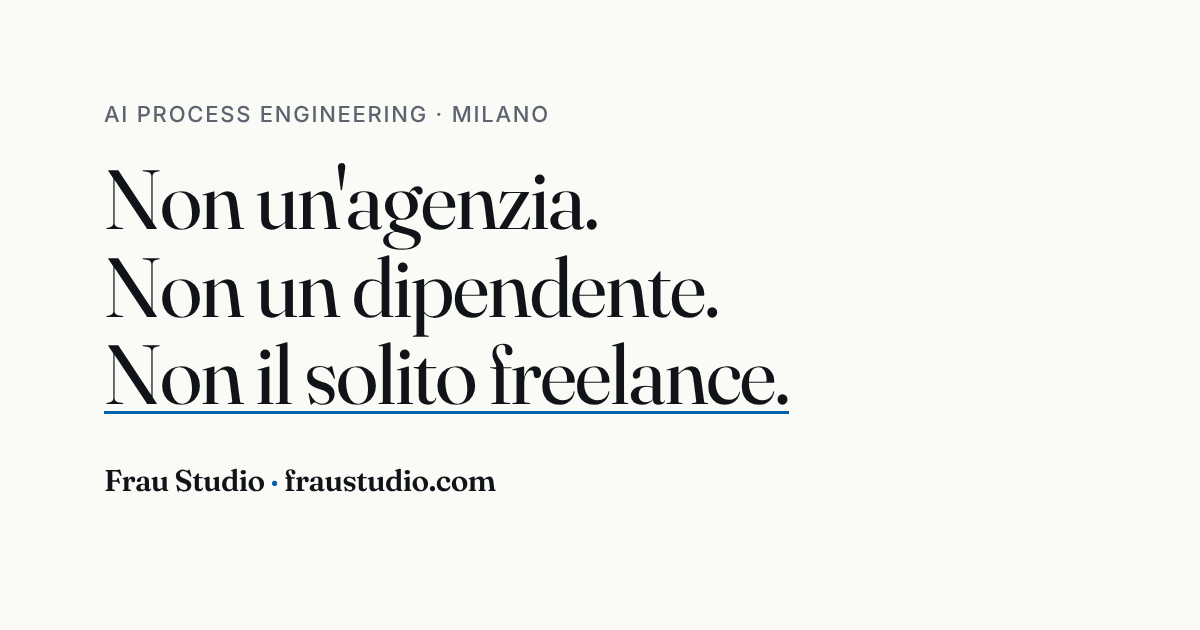
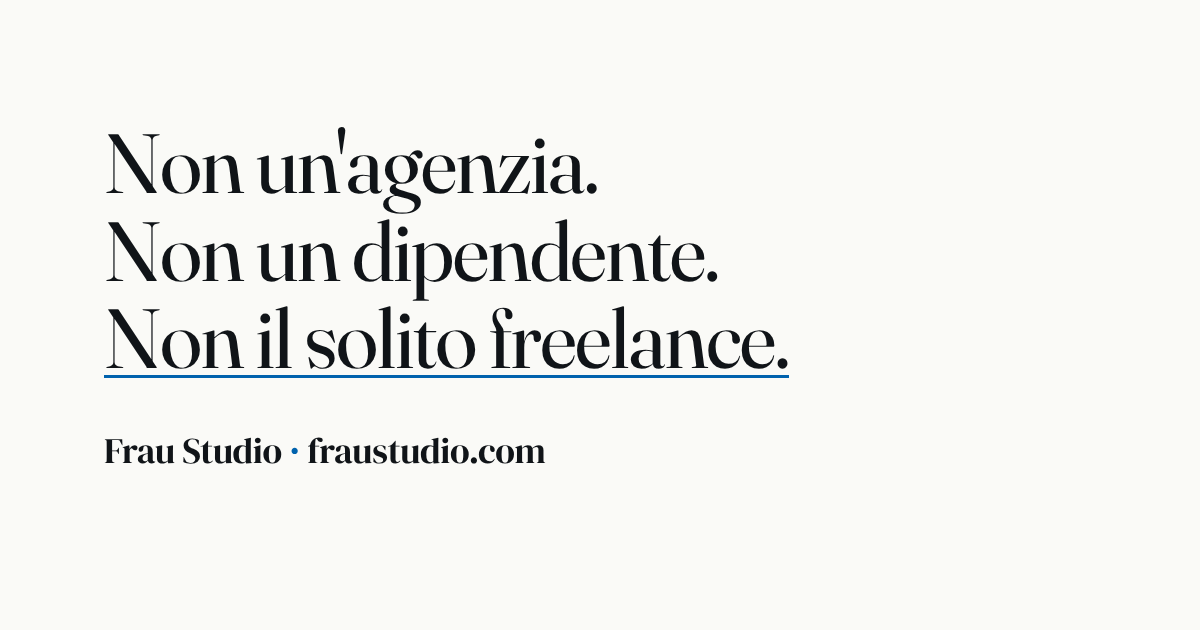
Wordmark più grande, hero senza kicker, FERØ senza nota
- Wordmark "Frau Studio" in DM Serif Display, più grande e più pieno
- Tolto il kicker "AI PROCESS ENGINEERING · MILANO" dall'hero e dall'og.png
- Tolta la nota "il codice è vero" dal badge di FERØ

Claude-Session: https://claude.ai/code/session_01AMMyEkETtqwbqHYx5aWHYv

Changed region(s): [[0.0925, 0.1508, 0.6783, 0.6635], [0.0617, 0.6937, 0.4625, 0.7841]]

diff --git a/index.html b/index.html
@@ -19,8 +19,8 @@
 <meta name="twitter:card" content="summary_large_image">
 <link rel="preconnect" href="https://fonts.googleapis.com">
 <link rel="preconnect" href="https://fonts.gstatic.com" crossorigin>
-<link rel="stylesheet" href="https://fonts.googleapis.com/css2?family=Fraunces:ital,opsz,wght@0,9..144,400;0,9..144,600;1,9..144,400;1,9..144,600&family=Inter:wght@400;500;600&display=swap">
-<link rel="stylesheet" href="/assets/style.css?v=42e7828291">
+<link rel="stylesheet" href="https://fonts.googleapis.com/css2?family=DM+Serif+Display&family=Fraunces:ital,opsz,wght@0,9..144,400;0,9..144,600;1,9..144,400;1,9..144,600&family=Inter:wght@400;500;600&display=swap">
+<link rel="stylesheet" href="/assets/style.css?v=a4e9590459">
 <script>document.documentElement.classList.add("js")</script>
 </head>
 <body>
@@ -75,7 +75,6 @@
   <script type="application/ld+json">{"@context": "https://schema.org", "@type": "Person", "name": "Alessandro Frau", "jobTitle": "AI Process Engineer", "worksFor": {"@type": "Organization", "name": "Frau Studio", "url": "https://fraustudio.com", "vatID": "IT14815310967"}, "url": "https://fraustudio.com", "email": "alessandro.frau88@gmail.com", "address": {"@type": "PostalAddress", "addressLocality": "Milano", "addressCountry": "IT"}, "sameAs": ["https://github.com/Aleczf", "https://www.linkedin.com/in/alessandro-frau-095b60153/"]}</script>
   <section id="top" class="hero">
     <div class="container">
-      <p class="kicker hero__kicker">AI PROCESS ENGINEERING · MILANO</p>
       <h1 class="hero__heading">
         <span class="hero__line" style="animation-delay: 0ms">Non un&#x27;agenzia.</span>
         <span class="hero__line" style="animation-delay: 120ms">Non un dipendente.</span>
@@ -253,7 +252,7 @@
         </div>
         <div class="card work-card">
           <a href="/lavori/fero/" class="work-card__stretched-link" aria-label="FERØ — Leggi il caso"></a>
-          <span class="badge-group"><span class="badge">CONCEPT DIMOSTRATIVO</span><span class="badge-note">il codice è vero</span></span>
+          <span class="badge-group"><span class="badge">CONCEPT DIMOSTRATIVO</span></span>
           <p class="kicker work-card__category">Sistema completo · AI · E-commerce</p>
           <h3 class="work-card__name">FERØ</h3>
           <p class="work-card__challenge">Vetrina, scelta assistita, contatti e back-office: di norma quattro fornitori e settimane di coordinamento.</p>

diff --git a/lavori/fero/index.html b/lavori/fero/index.html
@@ -19,8 +19,8 @@
 <meta name="twitter:card" content="summary_large_image">
 <link rel="preconnect" href="https://fonts.googleapis.com">
 <link rel="preconnect" href="https://fonts.gstatic.com" crossorigin>
-<link rel="stylesheet" href="https://fonts.googleapis.com/css2?family=Fraunces:ital,opsz,wght@0,9..144,400;0,9..144,600;1,9..144,400;1,9..144,600&family=Inter:wght@400;500;600&display=swap">
-<link rel="stylesheet" href="/assets/style.css?v=42e7828291">
+<link rel="stylesheet" href="https://fonts.googleapis.com/css2?family=DM+Serif+Display&family=Fraunces:ital,opsz,wght@0,9..144,400;0,9..144,600;1,9..144,400;1,9..144,600&family=Inter:wght@400;500;600&display=swap">
+<link rel="stylesheet" href="/assets/style.css?v=a4e9590459">
 <script>document.documentElement.classList.add("js")</script>
 </head>
 <body>
@@ -74,7 +74,7 @@
 <main class="case-study">
   <div class="container case-study__inner">
     <a href="/#lavori" class="case-study__back">&larr; Cosa ho costruito?</a>
-    <div class="case-study__badge"><span class="badge-group"><span class="badge">CONCEPT DIMOSTRATIVO</span><span class="badge-note">il codice è vero</span></span></div>
+    <div class="case-study__badge"><span class="badge-group"><span class="badge">CONCEPT DIMOSTRATIVO</span></span></div>
     <p class="kicker case-study__category">Sistema completo · AI · E-commerce</p>
     <h1 class="case-study__title">FERØ</h1>
 

diff --git a/404.html b/404.html
@@ -19,8 +19,8 @@
 <meta name="twitter:card" content="summary_large_image">
 <link rel="preconnect" href="https://fonts.googleapis.com">
 <link rel="preconnect" href="https://fonts.gstatic.com" crossorigin>
-<link rel="stylesheet" href="https://fonts.googleapis.com/css2?family=Fraunces:ital,opsz,wght@0,9..144,400;0,9..144,600;1,9..144,400;1,9..144,600&family=Inter:wght@400;500;600&display=swap">
-<link rel="stylesheet" href="/assets/style.css?v=42e7828291">
+<link rel="stylesheet" href="https://fonts.googleapis.com/css2?family=DM+Serif+Display&family=Fraunces:ital,opsz,wght@0,9..144,400;0,9..144,600;1,9..144,400;1,9..144,600&family=Inter:wght@400;500;600&display=swap">
+<link rel="stylesheet" href="/assets/style.css?v=a4e9590459">
 <script>document.documentElement.classList.add("js")</script>
 </head>
 <body>

diff --git a/lavori/cold-outreach/index.html b/lavori/cold-outreach/index.html
@@ -19,8 +19,8 @@
 <meta name="twitter:card" content="summary_large_image">
 <link rel="preconnect" href="https://fonts.googleapis.com">
 <link rel="preconnect" href="https://fonts.gstatic.com" crossorigin>
-<link rel="stylesheet" href="https://fonts.googleapis.com/css2?family=Fraunces:ital,opsz,wght@0,9..144,400;0,9..144,600;1,9..144,400;1,9..144,600&family=Inter:wght@400;500;600&display=swap">
-<link rel="stylesheet" href="/assets/style.css?v=42e7828291">
+<link rel="stylesheet" href="https://fonts.googleapis.com/css2?family=DM+Serif+Display&family=Fraunces:ital,opsz,wght@0,9..144,400;0,9..144,600;1,9..144,400;1,9..144,600&family=Inter:wght@400;500;600&display=swap">
+<link rel="stylesheet" href="/assets/style.css?v=a4e9590459">
 <script>document.documentElement.classList.add("js")</script>
 </head>
 <body>

diff --git a/lavori/controllo-costi-ristorante/index.html b/lavori/controllo-costi-ristorante/index.html
@@ -19,8 +19,8 @@
 <meta name="twitter:card" content="summary_large_image">
 <link rel="preconnect" href="https://fonts.googleapis.com">
 <link rel="preconnect" href="https://fonts.gstatic.com" crossorigin>
-<link rel="stylesheet" href="https://fonts.googleapis.com/css2?family=Fraunces:ital,opsz,wght@0,9..144,400;0,9..144,600;1,9..144,400;1,9..144,600&family=Inter:wght@400;500;600&display=swap">
-<link rel="stylesheet" href="/assets/style.css?v=42e7828291">
+<link rel="stylesheet" href="https://fonts.googleapis.com/css2?family=DM+Serif+Display&family=Fraunces:ital,opsz,wght@0,9..144,400;0,9..144,600;1,9..144,400;1,9..144,600&family=Inter:wght@400;500;600&display=swap">
+<link rel="stylesheet" href="/assets/style.css?v=a4e9590459">
 <script>document.documentElement.classList.add("js")</script>
 </head>
 <body>

diff --git a/lavori/crm-clinica/index.html b/lavori/crm-clinica/index.html
@@ -19,8 +19,8 @@
 <meta name="twitter:card" content="summary_large_image">
 <link rel="preconnect" href="https://fonts.googleapis.com">
 <link rel="preconnect" href="https://fonts.gstatic.com" crossorigin>
-<link rel="stylesheet" href="https://fonts.googleapis.com/css2?family=Fraunces:ital,opsz,wght@0,9..144,400;0,9..144,600;1,9..144,400;1,9..144,600&family=Inter:wght@400;500;600&display=swap">
-<link rel="stylesheet" href="/assets/style.css?v=42e7828291">
+<link rel="stylesheet" href="https://fonts.googleapis.com/css2?family=DM+Serif+Display&family=Fraunces:ital,opsz,wght@0,9..144,400;0,9..144,600;1,9..144,400;1,9..144,600&family=Inter:wght@400;500;600&display=swap">
+<link rel="stylesheet" href="/assets/style.css?v=a4e9590459">
 <script>document.documentElement.classList.add("js")</script>
 </head>
 <body>

diff --git a/lavori/gioielli-odoo/index.html b/lavori/gioielli-odoo/index.html
@@ -19,8 +19,8 @@
 <meta name="twitter:card" content="summary_large_image">
 <link rel="preconnect" href="https://fonts.googleapis.com">
 <link rel="preconnect" href="https://fonts.gstatic.com" crossorigin>
-<link rel="stylesheet" href="https://fonts.googleapis.com/css2?family=Fraunces:ital,opsz,wght@0,9..144,400;0,9..144,600;1,9..144,400;1,9..144,600&family=Inter:wght@400;500;600&display=swap">
-<link rel="stylesheet" href="/assets/style.css?v=42e7828291">
+<link rel="stylesheet" href="https://fonts.googleapis.com/css2?family=DM+Serif+Display&family=Fraunces:ital,opsz,wght@0,9..144,400;0,9..144,600;1,9..144,400;1,9..144,600&family=Inter:wght@400;500;600&display=swap">
+<link rel="stylesheet" href="/assets/style.css?v=a4e9590459">
 <script>document.documentElement.classList.add("js")</script>
 </head>
 <body>

diff --git a/lavori/intake-studio-legale/index.html b/lavori/intake-studio-legale/index.html
@@ -19,8 +19,8 @@
 <meta name="twitter:card" content="summary_large_image">
 <link rel="preconnect" href="https://fonts.googleapis.com">
 <link rel="preconnect" href="https://fonts.gstatic.com" crossorigin>
-<link rel="stylesheet" href="https://fonts.googleapis.com/css2?family=Fraunces:ital,opsz,wght@0,9..144,400;0,9..144,600;1,9..144,400;1,9..144,600&family=Inter:wght@400;500;600&display=swap">
-<link rel="stylesheet" href="/assets/style.css?v=42e7828291">
+<link rel="stylesheet" href="https://fonts.googleapis.com/css2?family=DM+Serif+Display&family=Fraunces:ital,opsz,wght@0,9..144,400;0,9..144,600;1,9..144,400;1,9..144,600&family=Inter:wght@400;500;600&display=swap">
+<link rel="stylesheet" href="/assets/style.css?v=a4e9590459">
 <script>document.documentElement.classList.add("js")</script>
 </head>
 <body>

diff --git a/lavori/magazzino-filati/index.html b/lavori/magazzino-filati/index.html
@@ -19,8 +19,8 @@
 <meta name="twitter:card" content="summary_large_image">
 <link rel="preconnect" href="https://fonts.googleapis.com">
 <link rel="preconnect" href="https://fonts.gstatic.com" crossorigin>
-<link rel="stylesheet" href="https://fonts.googleapis.com/css2?family=Fraunces:ital,opsz,wght@0,9..144,400;0,9..144,600;1,9..144,400;1,9..144,600&family=Inter:wght@400;500;600&display=swap">
-<link rel="stylesheet" href="/assets/style.css?v=42e7828291">
+<link rel="stylesheet" href="https://fonts.googleapis.com/css2?family=DM+Serif+Display&family=Fraunces:ital,opsz,wght@0,9..144,400;0,9..144,600;1,9..144,400;1,9..144,600&family=Inter:wght@400;500;600&display=swap">
+<link rel="stylesheet" href="/assets/style.css?v=a4e9590459">
 <script>document.documentElement.classList.add("js")</script>
 </head>
 <body>

diff --git a/lavori/migrazione-erp-odoo/index.html b/lavori/migrazione-erp-odoo/index.html
@@ -19,8 +19,8 @@
 <meta name="twitter:card" content="summary_large_image">
 <link rel="preconnect" href="https://fonts.googleapis.com">
 <link rel="preconnect" href="https://fonts.gstatic.com" crossorigin>
-<link rel="stylesheet" href="https://fonts.googleapis.com/css2?family=Fraunces:ital,opsz,wght@0,9..144,400;0,9..144,600;1,9..144,400;1,9..144,600&family=Inter:wght@400;500;600&display=swap">
-<link rel="stylesheet" href="/assets/style.css?v=42e7828291">
+<link rel="stylesheet" href="https://fonts.googleapis.com/css2?family=DM+Serif+Display&family=Fraunces:ital,opsz,wght@0,9..144,400;0,9..144,600;1,9..144,400;1,9..144,600&family=Inter:wght@400;500;600&display=swap">
+<link rel="stylesheet" href="/assets/style.css?v=a4e9590459">
 <script>document.documentElement.classList.add("js")</script>
 </head>
 <body>

diff --git a/lavori/nolo-hub/index.html b/lavori/nolo-hub/index.html
@@ -19,8 +19,8 @@
 <meta name="twitter:card" content="summary_large_image">
 <link rel="preconnect" href="https://fonts.googleapis.com">
 <link rel="preconnect" href="https://fonts.gstatic.com" crossorigin>
-<link rel="stylesheet" href="https://fonts.googleapis.com/css2?family=Fraunces:ital,opsz,wght@0,9..144,400;0,9..144,600;1,9..144,400;1,9..144,600&family=Inter:wght@400;500;600&display=swap">
-<link rel="stylesheet" href="/assets/style.css?v=42e7828291">
+<link rel="stylesheet" href="https://fonts.googleapis.com/css2?family=DM+Serif+Display&family=Fraunces:ital,opsz,wght@0,9..144,400;0,9..144,600;1,9..144,400;1,9..144,600&family=Inter:wght@400;500;600&display=swap">
+<link rel="stylesheet" href="/assets/style.css?v=a4e9590459">
 <script>document.documentElement.classList.add("js")</script>
 </head>
 <body>

diff --git a/lavori/odoo-cartsan/index.html b/lavori/odoo-cartsan/index.html
@@ -19,8 +19,8 @@
 <meta name="twitter:card" content="summary_large_image">
 <link rel="preconnect" href="https://fonts.googleapis.com">
 <link rel="preconnect" href="https://fonts.gstatic.com" crossorigin>
-<link rel="stylesheet" href="https://fonts.googleapis.com/css2?family=Fraunces:ital,opsz,wght@0,9..144,400;0,9..144,600;1,9..144,400;1,9..144,600&family=Inter:wght@400;500;600&display=swap">
-<link rel="stylesheet" href="/assets/style.css?v=42e7828291">
+<link rel="stylesheet" href="https://fonts.googleapis.com/css2?family=DM+Serif+Display&family=Fraunces:ital,opsz,wght@0,9..144,400;0,9..144,600;1,9..144,400;1,9..144,600&family=Inter:wght@400;500;600&display=swap">
+<link rel="stylesheet" href="/assets/style.css?v=a4e9590459">
 <script>document.documentElement.classList.add("js")</script>
 </head>
 <body>
